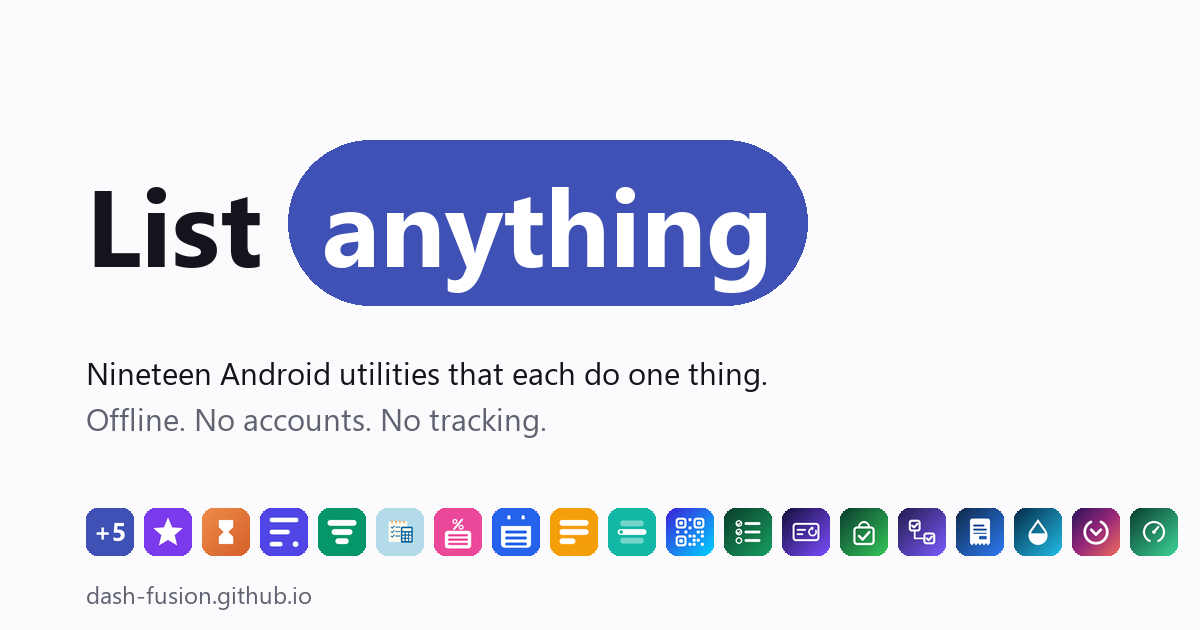
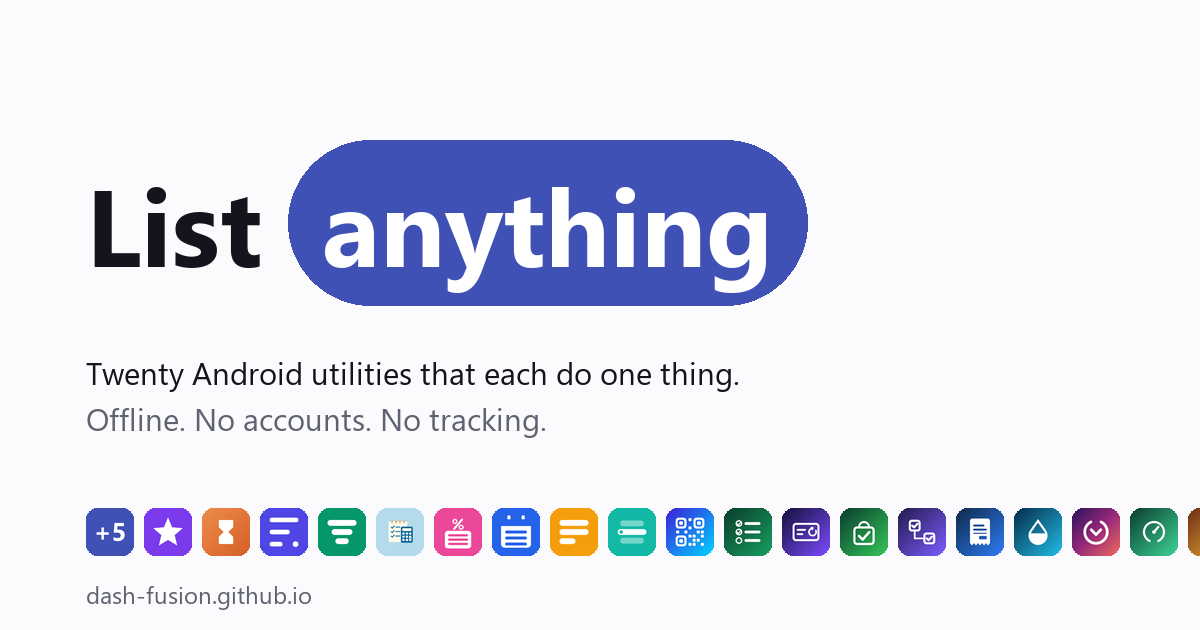
Add List Pack to the landing page as the twentieth utility
New icon, Shop and plan row, hero pill, JSON-LD item at position 18
with the rest renumbered, count word bumped to Twenty across all five
spots plus gen_social.py, og.png regenerated, sitemap lastmod bumped.

Changed region(s): [[0.0617, 0.573, 0.6475, 0.6333], [0.9867, 0.7841, 1.0, 0.9048]]

diff --git a/index.html b/index.html
@@ -5,7 +5,7 @@
 <meta name="viewport" content="width=device-width, initial-scale=1">
 
 <title>Dash Fusion — offline-first Android utility apps</title>
-<meta name="description" content="Nineteen small Android utilities that each do one thing well — counters, timers, budgets, subscriptions, shopping lists, notes, QR codes and more — plus two offline games: Potion Sort color-sort puzzles and Neon PingPong arcade duels. Everything works fully offline, with no account required.">
+<meta name="description" content="Twenty small Android utilities that each do one thing well — counters, timers, budgets, subscriptions, shopping lists, notes, QR codes and more — plus two offline games: Potion Sort color-sort puzzles and Neon PingPong arcade duels. Everything works fully offline, with no account required.">
 <link rel="canonical" href="https://dash-fusion.github.io/">
 <meta name="author" content="Dash Fusion">
 <meta name="robots" content="index, follow, max-image-preview:large">
@@ -16,14 +16,14 @@
 <meta property="og:site_name" content="Dash Fusion">
 <meta property="og:url" content="https://dash-fusion.github.io/">
 <meta property="og:title" content="Dash Fusion — offline-first Android utility apps">
-<meta property="og:description" content="Nineteen small Android utilities that each do one thing well, plus two offline games — Potion Sort and Neon PingPong. No account required.">
+<meta property="og:description" content="Twenty small Android utilities that each do one thing well, plus two offline games — Potion Sort and Neon PingPong. No account required.">
 <meta property="og:image" content="https://dash-fusion.github.io/og.png">
 <meta property="og:image:width" content="1200">
 <meta property="og:image:height" content="630">
-<meta property="og:image:alt" content="Dash Fusion — List anything. The nineteen app icons in a row.">
+<meta property="og:image:alt" content="Dash Fusion — List anything. The twenty app icons in a row.">
 <meta name="twitter:card" content="summary_large_image">
 <meta name="twitter:title" content="Dash Fusion — offline-first Android utility apps">
-<meta name="twitter:description" content="Nineteen small Android utilities that each do one thing well, plus two offline games — Potion Sort and Neon PingPong. No account required.">
+<meta name="twitter:description" content="Twenty small Android utilities that each do one thing well, plus two offline games — Potion Sort and Neon PingPong. No account required.">
 <meta name="twitter:image" content="https://dash-fusion.github.io/og.png">
 
 <link rel="icon" href="/favicon.svg" type="image/svg+xml">
@@ -320,7 +320,7 @@ a{color:inherit}
 <header class="masthead shell">
   <p class="eyebrow">Dash Fusion</p>
   <h1 class="wordmark">List <span class="slot" id="slot"><span class="slot-text" id="slotText">anything</span></span></h1>
-  <p class="lede">Nineteen Android utilities that each do <strong>one thing</strong> — and two offline games for your breaks. Everything works offline, keeps your data on your phone, and never asks who you are.</p>
+  <p class="lede">Twenty Android utilities that each do <strong>one thing</strong> — and two offline games for your breaks. Everything works offline, keeps your data on your phone, and never asks who you are.</p>
   <span class="slot-measure" id="slotMeasure" aria-hidden="true"></span>
 </header>
 
@@ -574,6 +574,19 @@ a{color:inherit}
           </div>
         </div>
       </li>
+      <li class="row" style="--hue:#C97A22;--deep:#8A4A14">
+        <div class="row-in">
+          <img class="row-icon" src="icons/list-pack.png" width="46" height="46" alt="" decoding="async">
+          <div>
+            <h3 class="row-name">List Pack</h3>
+            <p class="row-desc">Build a packing template once and reuse it for every trip — categories, quantities, multi-person lists and a progress bar.</p>
+          </div>
+          <div class="row-links">
+            <a class="play-link" href="https://play.google.com/store/apps/details?id=com.dashfusion.listpack" aria-label="List Pack on Google Play" title="Get it on Google Play"><svg class="play-glyph" aria-hidden="true" focusable="false"><use href="#gplay"></use></svg></a>
+            <a href="https://dash-fusion.github.io/privacy/list-pack" aria-label="List Pack privacy policy">Privacy</a>
+          </div>
+        </div>
+      </li>
     </ul>
   </section>
 
@@ -697,7 +710,8 @@ a{color:inherit}
     {t:'Invoice',    c:'#1B5FBE'},
     {t:'Water',      c:'#0A6FA8'},
     {t:'Countdown',  c:'#6338C4'},
-    {t:'Weight',     c:'#176E52'}
+    {t:'Weight',     c:'#176E52'},
+    {t:'Pack',       c:'#8A4A14'}
   ];
   var i = 0;
 
@@ -764,7 +778,7 @@ a{color:inherit}
     {
       "@type":"ItemList",
       "name":"Dash Fusion Android apps",
-      "numberOfItems":21,
+      "numberOfItems":22,
       "itemListElement":[
         {"@type":"ListItem","position":1,"item":{"@type":"MobileApplication","name":"List Counter","applicationCategory":"UtilitiesApplication","operatingSystem":"Android","url":"https://play.google.com/store/apps/details?id=com.dashfusion.listcounter","image":"https://dash-fusion.github.io/icons/list-counter.png","description":"Tally reps, stock, laps or attendees with as many counters as you need.","author":{"@id":"https://dash-fusion.github.io/#org"},"offers":{"@type":"Offer","price":"0","priceCurrency":"USD"}}},
         {"@type":"ListItem","position":2,"item":{"@type":"MobileApplication","name":"List Habit","applicationCategory":"UtilitiesApplication","operatingSystem":"Android","url":"https://play.google.com/store/apps/details?id=com.dashfusion.listhabit","image":"https://dash-fusion.github.io/icons/list-habit.png","description":"Offline habit tracker — daily, weekday or weekly-goal habits with streaks, a month calendar and gentle reminders.","author":{"@id":"https://dash-fusion.github.io/#org"},"offers":{"@type":"Offer","price":"0","priceCurrency":"USD"}}},
@@ -783,10 +797,11 @@ a{color:inherit}
         {"@type":"ListItem","position":15,"item":{"@type":"MobileApplication","name":"List Picker","applicationCategory":"UtilitiesApplication","operatingSystem":"Android","url":"https://play.google.com/store/apps/details?id=com.dashfusion.listpicker","image":"https://dash-fusion.github.io/icons/list-picker.png","description":"Spin a wheel, draw a name, split teams or flip a coin.","author":{"@id":"https://dash-fusion.github.io/#org"},"offers":{"@type":"Offer","price":"0","priceCurrency":"USD"}}},
         {"@type":"ListItem","position":16,"item":{"@type":"MobileApplication","name":"List Grocery","applicationCategory":"ShoppingApplication","operatingSystem":"Android","url":"https://play.google.com/store/apps/details?id=com.dashfusion.listgrocery","image":"https://dash-fusion.github.io/icons/list-grocery.png","description":"Offline shopping list built for the aisle — quick add, aisle order per store, staples, templates and an estimated total. No account, no banner ads.","author":{"@id":"https://dash-fusion.github.io/#org"},"offers":{"@type":"Offer","price":"0","priceCurrency":"USD"}}},
         {"@type":"ListItem","position":17,"item":{"@type":"MobileApplication","name":"List Todo","applicationCategory":"ProductivityApplication","operatingSystem":"Android","url":"https://play.google.com/store/apps/details?id=com.dashfusion.listtodo","image":"https://dash-fusion.github.io/icons/list-todo.png","description":"Offline to-do list with unlimited nested sub-tasks — tick a parent to finish the branch, plus due dates, reminders and repeating tasks at any depth. No account, no banner ads.","author":{"@id":"https://dash-fusion.github.io/#org"},"offers":{"@type":"Offer","price":"0","priceCurrency":"USD"}}},
-        {"@type":"ListItem","position":18,"item":{"@type":"MobileApplication","name":"List QR","applicationCategory":"UtilitiesApplication","operatingSystem":"Android","url":"https://play.google.com/store/apps/details?id=com.dashfusion.qrgenerator","image":"https://dash-fusion.github.io/icons/list-qr.png","description":"Offline QR code and barcode generator — styled codes that still scan, saved to a list on your device.","author":{"@id":"https://dash-fusion.github.io/#org"},"offers":{"@type":"Offer","price":"0","priceCurrency":"USD"}}},
-        {"@type":"ListItem","position":19,"item":{"@type":"MobileApplication","name":"List Invoice","applicationCategory":"BusinessApplication","operatingSystem":"Android","url":"https://play.google.com/store/apps/details?id=com.dashfusion.listinvoice","image":"https://dash-fusion.github.io/icons/list-invoice.png","description":"Offline invoice maker — branded PDF invoices with no watermark, saved clients and items, automatic numbering, and paid and outstanding totals. No account, no banner ads.","author":{"@id":"https://dash-fusion.github.io/#org"},"offers":{"@type":"Offer","price":"0","priceCurrency":"USD"}}},
-        {"@type":"ListItem","position":20,"item":{"@type":"MobileApplication","name":"Neon PingPong","applicationCategory":"GameApplication","operatingSystem":"Android","url":"https://play.google.com/store/apps/details?id=com.dashfusion.pingpong","image":"https://dash-fusion.github.io/icons/pingpong.png","description":"Neon arcade ping pong — solo vs AI, two players on one phone, or Wi-Fi multiplayer. Fully offline.","author":{"@id":"https://dash-fusion.github.io/#org"},"offers":{"@type":"Offer","price":"0","priceCurrency":"USD"}}},
-        {"@type":"ListItem","position":21,"item":{"@type":"MobileApplication","name":"Potion Sort","applicationCategory":"GameApplication","operatingSystem":"Android","url":"https://play.google.com/store/apps/details?id=com.dashfusion.potion_sort","image":"https://dash-fusion.github.io/icons/potion-sort.png","description":"Offline color-sort puzzle with 999 solver-verified levels and a daily challenge.","author":{"@id":"https://dash-fusion.github.io/#org"},"offers":{"@type":"Offer","price":"0","priceCurrency":"USD"}}}
+        {"@type":"ListItem","position":18,"item":{"@type":"MobileApplication","name":"List Pack","applicationCategory":"TravelApplication","operatingSystem":"Android","url":"https://play.google.com/store/apps/details?id=com.dashfusion.listpack","image":"https://dash-fusion.github.io/icons/list-pack.png","description":"Offline packing checklist built from reusable templates — categories, quantities, multi-person assignment and a progress bar for every trip.","author":{"@id":"https://dash-fusion.github.io/#org"},"offers":{"@type":"Offer","price":"0","priceCurrency":"USD"}}},
+        {"@type":"ListItem","position":19,"item":{"@type":"MobileApplication","name":"List QR","applicationCategory":"UtilitiesApplication","operatingSystem":"Android","url":"https://play.google.com/store/apps/details?id=com.dashfusion.qrgenerator","image":"https://dash-fusion.github.io/icons/list-qr.png","description":"Offline QR code and barcode generator — styled codes that still scan, saved to a list on your device.","author":{"@id":"https://dash-fusion.github.io/#org"},"offers":{"@type":"Offer","price":"0","priceCurrency":"USD"}}},
+        {"@type":"ListItem","position":20,"item":{"@type":"MobileApplication","name":"List Invoice","applicationCategory":"BusinessApplication","operatingSystem":"Android","url":"https://play.google.com/store/apps/details?id=com.dashfusion.listinvoice","image":"https://dash-fusion.github.io/icons/list-invoice.png","description":"Offline invoice maker — branded PDF invoices with no watermark, saved clients and items, automatic numbering, and paid and outstanding totals. No account, no banner ads.","author":{"@id":"https://dash-fusion.github.io/#org"},"offers":{"@type":"Offer","price":"0","priceCurrency":"USD"}}},
+        {"@type":"ListItem","position":21,"item":{"@type":"MobileApplication","name":"Neon PingPong","applicationCategory":"GameApplication","operatingSystem":"Android","url":"https://play.google.com/store/apps/details?id=com.dashfusion.pingpong","image":"https://dash-fusion.github.io/icons/pingpong.png","description":"Neon arcade ping pong — solo vs AI, two players on one phone, or Wi-Fi multiplayer. Fully offline.","author":{"@id":"https://dash-fusion.github.io/#org"},"offers":{"@type":"Offer","price":"0","priceCurrency":"USD"}}},
+        {"@type":"ListItem","position":22,"item":{"@type":"MobileApplication","name":"Potion Sort","applicationCategory":"GameApplication","operatingSystem":"Android","url":"https://play.google.com/store/apps/details?id=com.dashfusion.potion_sort","image":"https://dash-fusion.github.io/icons/potion-sort.png","description":"Offline color-sort puzzle with 999 solver-verified levels and a daily challenge.","author":{"@id":"https://dash-fusion.github.io/#org"},"offers":{"@type":"Offer","price":"0","priceCurrency":"USD"}}}
       ]
     }
   ]

diff --git a/scripts/gen_social.py b/scripts/gen_social.py
@@ -25,7 +25,7 @@ REGULAR = "C:/Windows/Fonts/segoeui.ttf"
 APPS = [
     "counter", "score", "timer", "budget", "debt",
     "calculator", "percent", "date", "notes", "picker", "qr", "habit", "subs", "grocery",
-    "todo", "invoice", "water", "countdown", "weight",
+    "todo", "invoice", "water", "countdown", "weight", "pack",
 ]
 
 
@@ -63,7 +63,7 @@ def build_og(path):
 
     d.text(
         (left, py1 + 46),
-        "Nineteen Android utilities that each do one thing.",
+        "Twenty Android utilities that each do one thing.",
         font=sub,
         fill=INK,
     )
